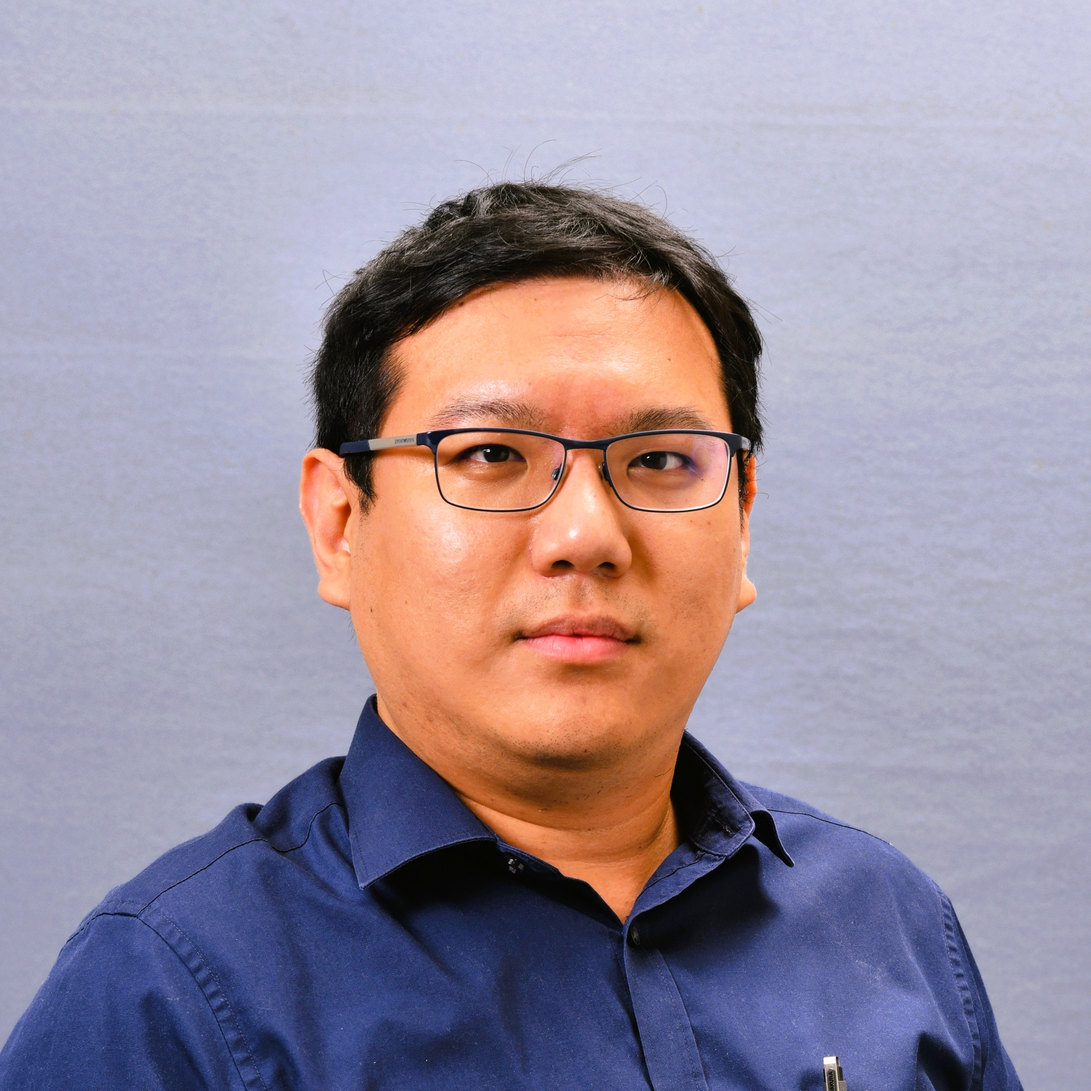
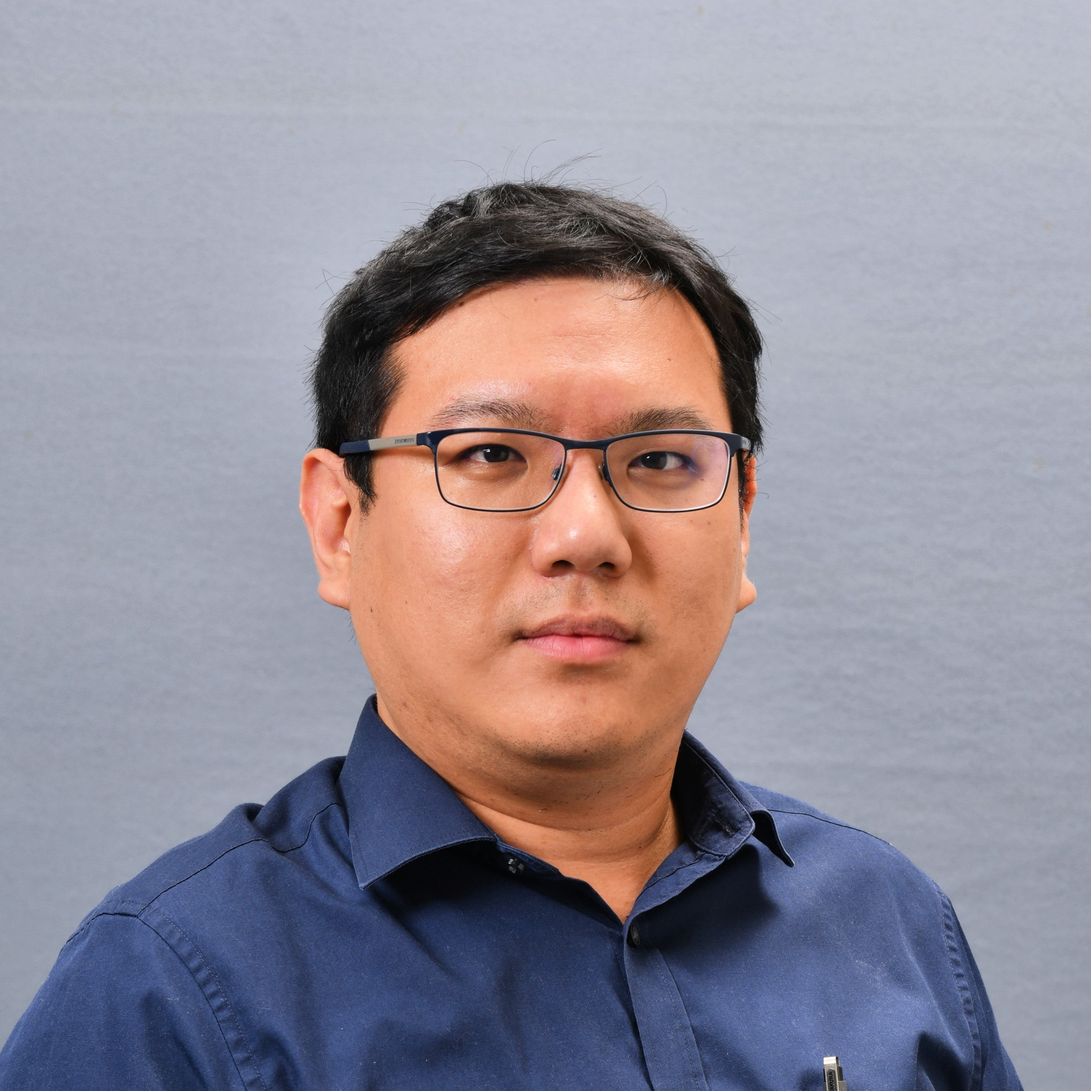
Consolidate publications pages and update faculty photo

diff --git a/publications.html b/publications.html
@@ -72,25 +72,14 @@
     <section class="hero">
         <div class="container">
             <h1>Publications</h1>
-            <p class="subtitle">Research Publications and Grants</p>
+            <p class="subtitle">Research Publications and Presentations</p>
         </div>
     </section>
 
-    <nav class="subnav">
-        <ul>
-            <li><a href="#journal-papers" class="active">Journal Papers</a></li>
-            <li><a href="#international-conference">International Conference</a></li>
-            <li><a href="#domestic-conference">Domestic Conference</a></li>
-            <li><a href="#grants">Grants & Funding</a></li>
-        </ul>
-    </nav>
-
-    <section class="research-archive">
-        <section id="journal-papers">
-            <div class="page-title">
-                <h1>Journal Papers</h1>
-            </div>
-            <div class="publication-section">
+    <main class="container">
+        <section class="publication-section">
+            <h2>Journal Papers</h2>
+            <div class="publications-list">
                 <div class="publication-item">
                     <span class="pub-index">1</span>
                     <p class="authors">Win Shwe Sin Khine, Prarinya Siritanawan, Kazunori Kotani</p>
@@ -172,11 +161,9 @@
             </div>
         </section>
 
-        <section id="international-conference">
-            <div class="page-title">
-                <h1>International Conference Papers</h1>
-            </div>
-            <div class="publication-section">
+        <section class="publication-section">
+            <h2>International Conference Papers</h2>
+            <div class="publications-list">
                 <div class="publication-item">
                     <span class="pub-index">1</span>
                     <p class="authors">Satida Ruengsurat, Jaimai Eawsivigoon, Vidchaphol Sookplang, Karin Sumongkayothin, Prarinya Siritanawan, Razvan Beuran, Kazunori Kotani</p>
@@ -448,11 +435,9 @@
             </div>
         </section>
 
-        <section id="domestic-conference">
-            <div class="page-title">
-                <h1>Domestic Conference Papers</h1>
-            </div>
-            <div class="publication-section">
+        <section class="publication-section">
+            <h2>Domestic Conference Papers</h2>
+            <div class="publications-list">
                 <div class="publication-item">
                     <span class="pub-index">1</span>
                     <p class="authors">真嘉比浩乃，杉田一樹，太田光一，谷　文，シリタナワン パーリンヤ，長谷川　忍</p>
@@ -673,7 +658,7 @@
                 </li>
             </ul>
         </section>
-    </section>
+    </main>
 
     <footer>
         <div class="container">

diff --git a/members.html b/members.html
@@ -495,7 +495,7 @@
             <h2>Faculty</h2>
             <div class="member-profile">
                 <div class="profile-photo-wrapper">
-                    <img src="images/faculty/prarinya-photo3.JPG" alt="Prarinya Siritanawan" class="profile-photo">
+                    <img src="images/faculty/prarinya-photo.JPG" alt="Prarinya Siritanawan" class="profile-photo">
                 </div>
                 <div class="profile-content">
                     <div class="profile-header">
